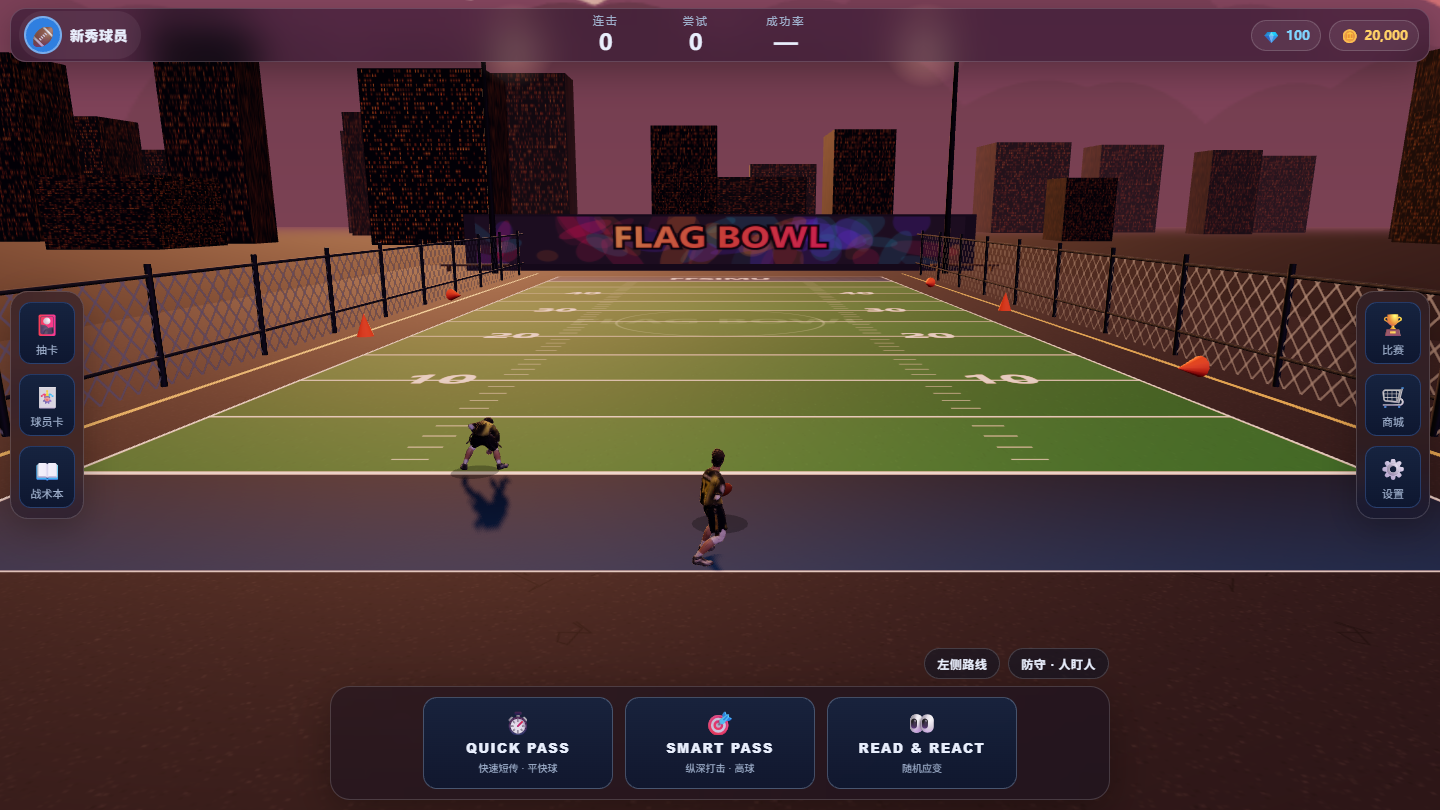
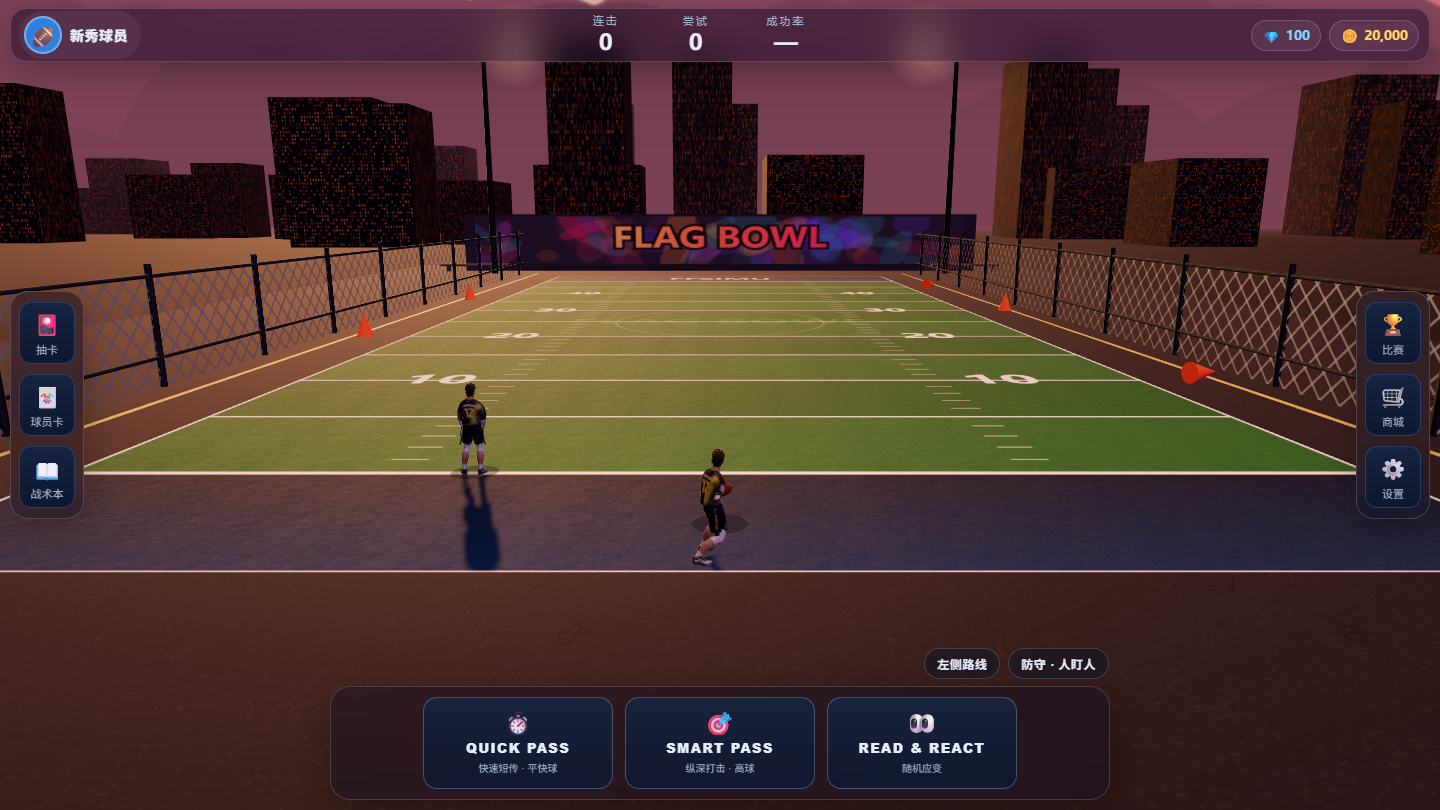
feat: v0.8.0 — 草地 PBR 材质（CC0 颜色/法线/粗糙度 + 双尺度细节层 + 踩踏痕迹）

diff --git a/src/three/scene.ts b/src/three/scene.ts
@@ -98,6 +98,18 @@ function makeFieldTexture(): THREE.CanvasTexture {
   }
   ctx.globalAlpha = 1;
 
+  // ---- 踩踏痕迹：中路和码线附近更秃/更深，像真草被踩过 ----
+  for (let i = 0; i < 1400; i++) {
+    const z = Math.random() * FIELD_LENGTH;
+    const x = (Math.random() - 0.5) * (FIELD_WIDTH * 0.55);
+    ctx.globalAlpha = 0.05 + Math.random() * 0.1;
+    ctx.fillStyle = Math.random() > 0.55 ? '#1d4a1f' : '#4a7a3a';
+    ctx.beginPath();
+    ctx.ellipse(px(x), pz(z), (0.12 + Math.random() * 0.25) * SX, (0.4 + Math.random() * 0.8) * SY, Math.random() * 3, 0, Math.PI * 2);
+    ctx.fill();
+  }
+  ctx.globalAlpha = 1;
+
   // ---- 两端端区：球队色渐变 + 端区文字 ----
   const endZone = (z0: number, z1: number) => {
     const y0 = pz(z1);
@@ -409,27 +421,6 @@ function makeSky(): THREE.Mesh {
 }
 
 /** 草皮凹凸贴图：让球场在灯光下有细微起伏，不再是纯平色块 */
-function makeGrassBump(): THREE.CanvasTexture {
-  const S = 256;
-  const canvas = document.createElement('canvas');
-  canvas.width = S;
-  canvas.height = S;
-  const ctx = canvas.getContext('2d')!;
-  ctx.fillStyle = '#808080';
-  ctx.fillRect(0, 0, S, S);
-  const rnd = mulberry32(9911);
-  for (let i = 0; i < 9000; i++) {
-    const v = 90 + Math.floor(rnd() * 90);
-    ctx.fillStyle = `rgb(${v}, ${v}, ${v})`;
-    ctx.fillRect(rnd() * S, rnd() * S, 1.5, 1 + rnd() * 2);
-  }
-  const tex = new THREE.CanvasTexture(canvas);
-  tex.wrapS = THREE.RepeatWrapping;
-  tex.wrapT = THREE.RepeatWrapping;
-  tex.repeat.set(12, 26);
-  return tex;
-}
-
 /**
  * 构建球场场景：黄昏天空 + 草皮 + 街球外景 + QB/WR + 球。
  * 世界坐标：1 unit = 1 yd；x 横向，z 纵深（0=开球线，正=进攻方向），y 向上。
@@ -472,16 +463,58 @@ export function buildScene(): FieldObjects {
     scene.add(line);
   }
 
-  const ground = new THREE.Mesh(
-    new THREE.PlaneGeometry(FIELD_WIDTH, FIELD_TOTAL_LENGTH),
-    new THREE.MeshStandardMaterial({
-      map: makeFieldTexture(),
-      bumpMap: makeGrassBump(),
-      bumpScale: 0.05,
-      roughness: 0.95,
-      metalness: 0,
-    }),
-  );
+  // 草皮 PBR 细节层（Poly Haven CC0 贴图，WebP）
+  const texLoader = new THREE.TextureLoader();
+  const grassDiff = texLoader.load('./textures/grass_diff.webp');
+  grassDiff.colorSpace = THREE.SRGBColorSpace;
+  grassDiff.wrapS = grassDiff.wrapT = THREE.RepeatWrapping;
+  grassDiff.repeat.set(14, 32);
+  grassDiff.anisotropy = 8;
+
+  const grassNor = texLoader.load('./textures/grass_nor.webp');
+  grassNor.wrapS = grassNor.wrapT = THREE.RepeatWrapping;
+  grassNor.repeat.set(14, 32);
+  grassNor.anisotropy = 8;
+
+  const grassRough = texLoader.load('./textures/grass_rough.webp');
+  grassRough.wrapS = grassRough.wrapT = THREE.RepeatWrapping;
+  grassRough.repeat.set(7, 16);
+
+  const fieldMat = new THREE.MeshStandardMaterial({
+    map: makeFieldTexture(),
+    normalMap: grassNor,
+    normalScale: new THREE.Vector2(1.5, 1.5),
+    roughnessMap: grassRough,
+    roughness: 1,
+    metalness: 0,
+  });
+  // 把草地细节（颜色）叠加到球场贴图上；白色码线保持干净
+  fieldMat.onBeforeCompile = (shader) => {
+    shader.uniforms.grassDetail = { value: grassDiff };
+    shader.uniforms.grassRepeat = { value: new THREE.Vector2(14, 32) };
+    shader.fragmentShader = shader.fragmentShader
+      .replace(
+        '#include <common>',
+        '#include <common>\nuniform sampler2D grassDetail;\nuniform vec2 grassRepeat;',
+      )
+      .replace(
+        '#include <map_fragment>',
+        `#include <map_fragment>
+        vec3 gDetail = texture2D(grassDetail, vMapUv * grassRepeat).rgb;
+        vec3 gDetail2 = texture2D(grassDetail, vMapUv * grassRepeat * 2.7 + 0.37).rgb;
+        float gv = dot(gDetail, vec3(0.299, 0.587, 0.114));
+        float gv2 = dot(gDetail2, vec3(0.299, 0.587, 0.114));
+        gv = mix(gv, gv2, 0.4);
+        // 只调制亮度，保留球场本身的绿色；白线/号码(高亮度)不参与，保持干净
+        float gLum = dot(diffuseColor.rgb, vec3(0.299, 0.587, 0.114));
+        float gMask = 1.0 - smoothstep(0.5, 0.78, gLum);
+        diffuseColor.rgb *= mix(1.0, mix(0.66, 1.34, gv), gMask);
+        // 轻微色相变化：亮处偏黄绿，暗处偏深绿
+        diffuseColor.rgb *= mix(vec3(1.0), vec3(0.94, 1.07, 0.88), (gv - 0.5) * 1.1 * gMask);`,
+      );
+  };
+
+  const ground = new THREE.Mesh(new THREE.PlaneGeometry(FIELD_WIDTH, FIELD_TOTAL_LENGTH), fieldMat);
   ground.rotation.x = -Math.PI / 2;
   ground.position.set(0, 0, FIELD_LENGTH / 2);
   ground.receiveShadow = true;

diff --git a/src/data/changelog.ts b/src/data/changelog.ts
@@ -7,6 +7,16 @@ export interface ChangelogEntry {
 
 export const CHANGELOG: ChangelogEntry[] = [
   {
+    version: '0.8.0',
+    date: '2026-11-02',
+    items: [
+      '草地材质升级：接入 CC0 草地 PBR 贴图（颜色 / 法线 / 粗糙度）',
+      '细节层按 2 个不同比例混合，减弱重复感，草纹在近景可见',
+      '新增踩踏痕迹与深浅草色变化，码线/号码保持干净清晰',
+      '法线强度提升，灯光下草皮有起伏高光',
+    ],
+  },
+  {
     version: '0.7.0',
     date: '2026-11-02',
     items: [

diff --git a/vite.config.ts b/vite.config.ts
@@ -40,7 +40,7 @@ export default defineConfig({
       },
       workbox: {
         // 代码/图标/模型都进预缓存：SW 安装完即离线可用（模型 ≤2MB，一次下载）
-        globPatterns: ['**/*.{js,css,html,svg,png,webmanifest,glb}'],
+        globPatterns: ['**/*.{js,css,html,svg,png,webmanifest,glb,webp}'],
         maximumFileSizeToCacheInBytes: 6 * 1024 * 1024,
         cleanupOutdatedCaches: true,
         // 新 SW 激活后接管页面，保证点「立即更新」后一定能刷新到新版本
